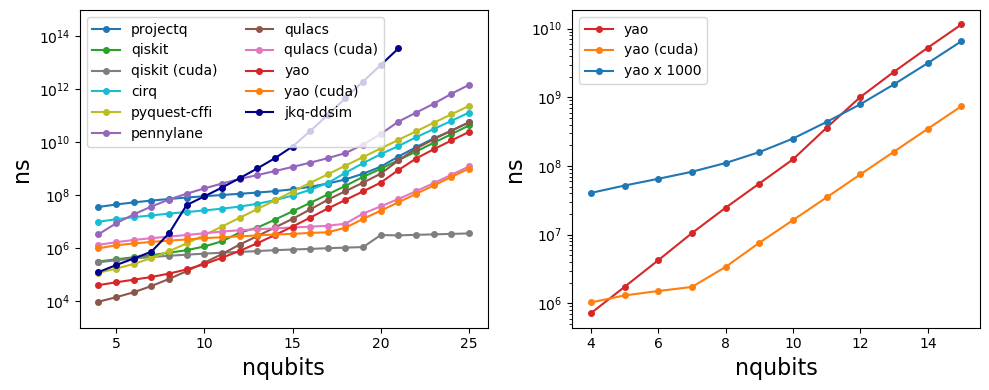
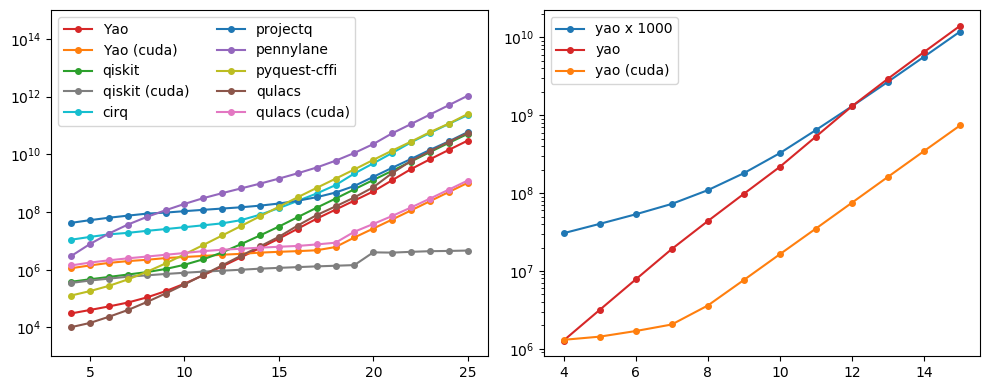
update images

diff --git a/bin/plot2.py b/bin/plot2.py
@@ -106,12 +106,13 @@ colors = {
 report = BenchmarkReport(
     projects,
     layout = {
-        'Parameterized Circuit Benchmark' : labels,
+        '' : labels,
     },
     colors = colors,
 )
 
 fig, (ax1, ax2) = plt.subplots(1, 2, figsize=(10, 4), sharey=False)
+ax1.set_ylim([1e3, 1e15])
 plots = report.plot_absolute(ax1)
 labels = []
 for each in plots[0]._lines:
@@ -125,10 +126,10 @@ lgd1 = plots[0].ax.legend(
 )
 
 yao_project = projects[0]
-ax2.set_title('Batched Parameterized Circuit Benchmark')
+# ax2.set_title('Batched Parameterized Circuit Benchmark')
 yao_project.update_table(['QCBM', 'QCBM (batch)', 'QCBM (batch) (cuda)'])
 d = yao_project.table['QCBM']
-ax2.semilogy(d["nqubits"], d["times"], '-o', markersize=4, color=COLOR['yao x 1000'])
+ax2.semilogy(d["nqubits"][:12], [each * 1000 for each in d["times"][:12]], '-o', markersize=4, color=COLOR['yao x 1000'])
 d = yao_project.table['QCBM (batch)']
 ax2.semilogy(d["nqubits"], d["times"], '-o', markersize=4, color=COLOR['yao'])
 d = yao_project.table['QCBM (batch) (cuda)']
